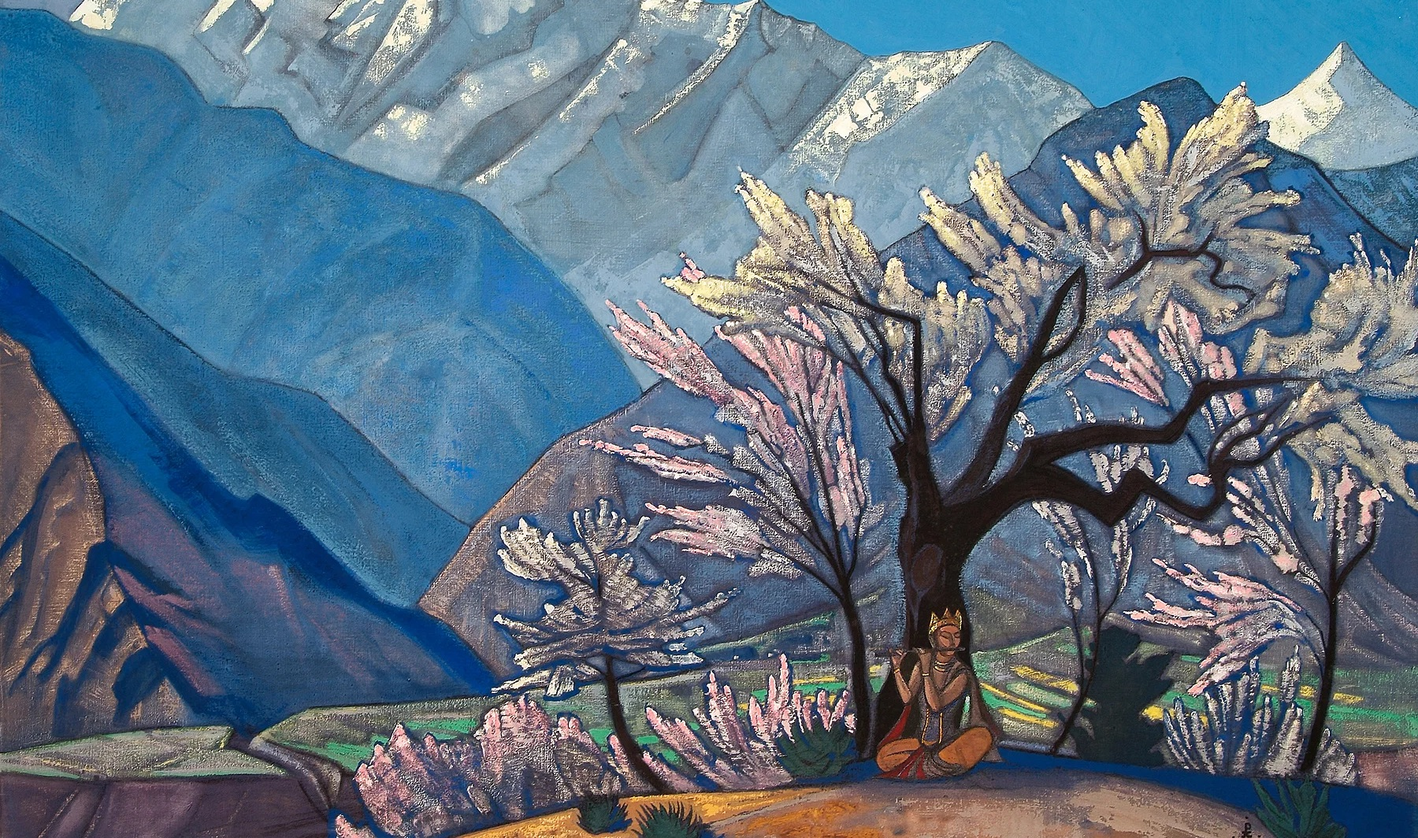
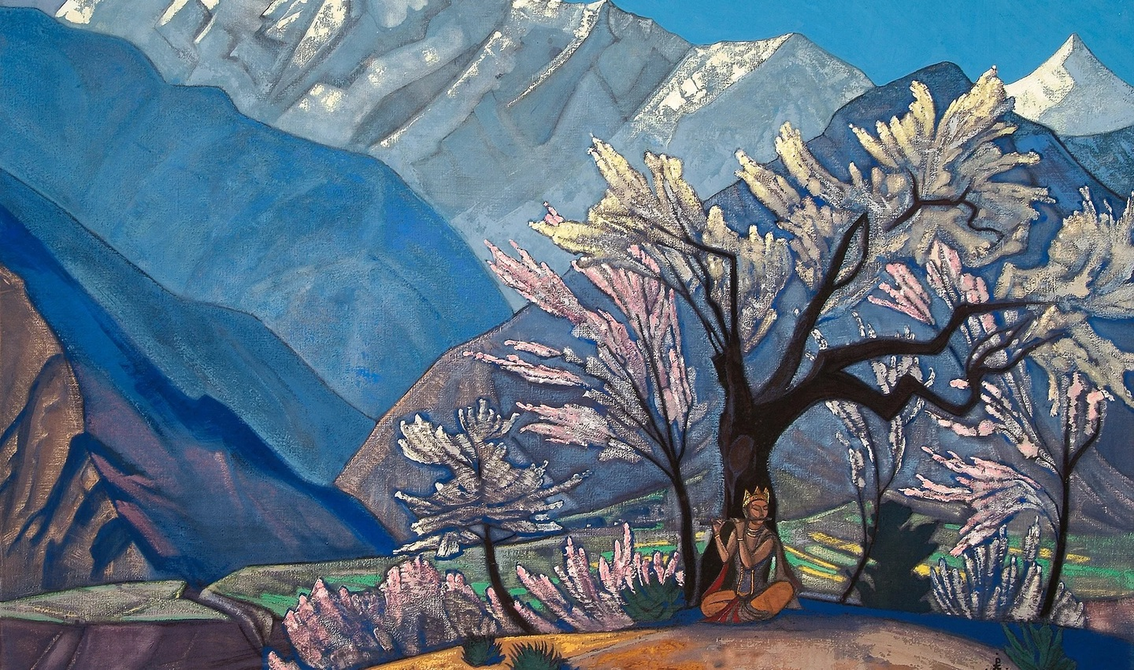
summary 3
description 3

diff --git a/style.css b/style.css
@@ -55,8 +55,8 @@ audio {
   header div p {
     font-size: 70%;
   }
-  main div img {
-    width: 80%;
+  main .container img {
+    width: 85%;
   }
   header div img {
     width: 80%;
